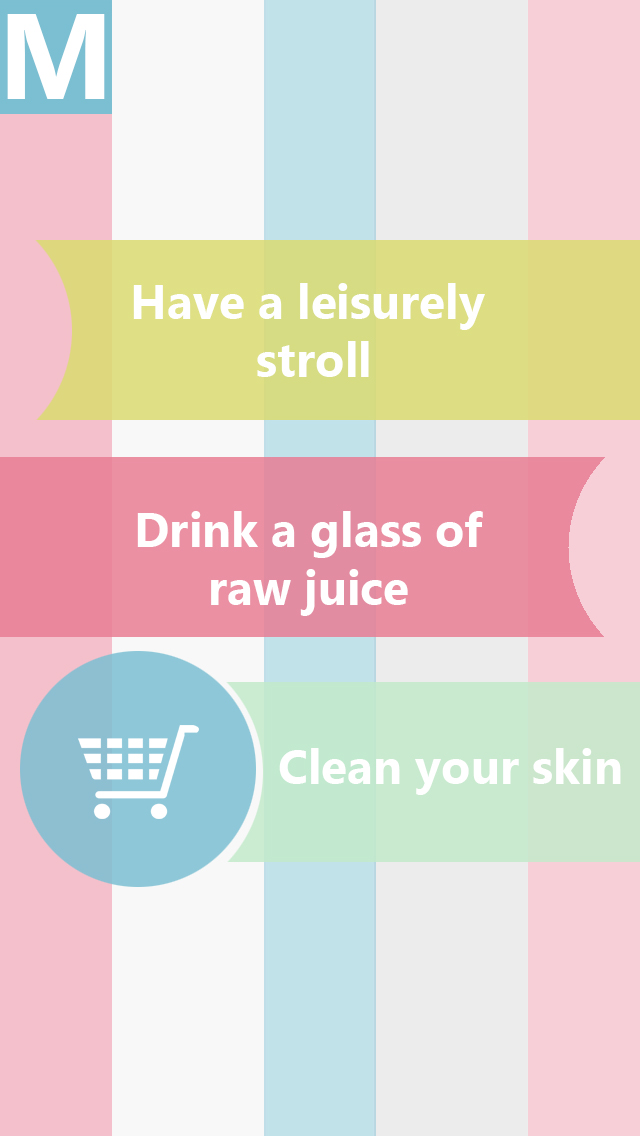
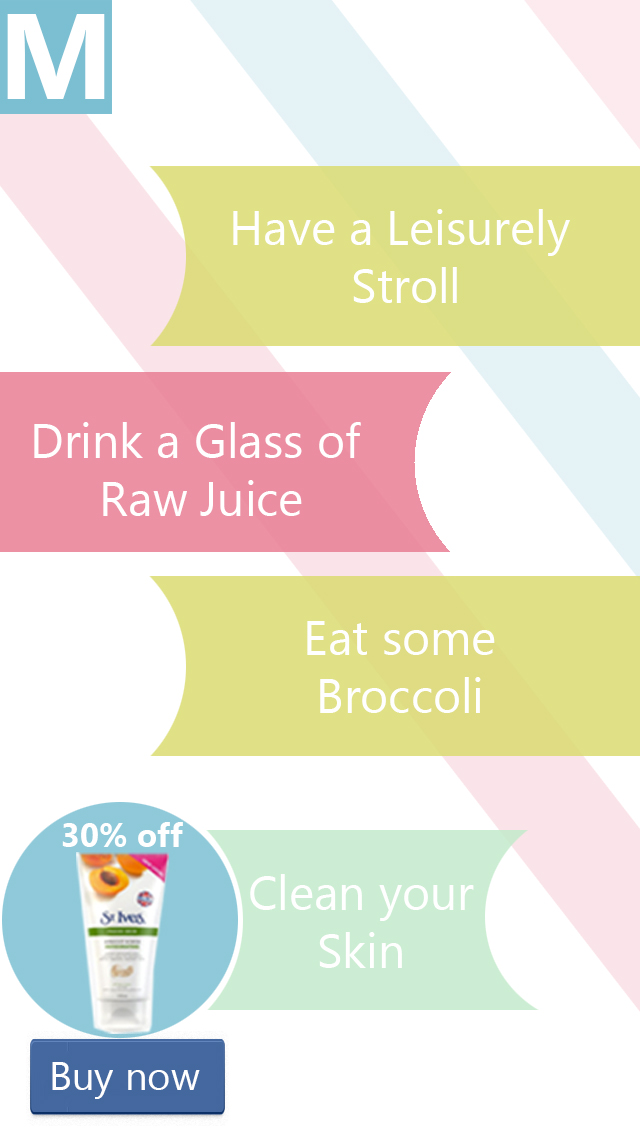
updates

diff --git a/HashProject/AcceptChallengeViewController.m b/HashProject/AcceptChallengeViewController.m
@@ -42,28 +42,38 @@
     
     self.view.backgroundColor = [UIColor blueColor];
     
-    UIButton* button = [[UIButton alloc] initWithFrame:CGRectMake(10.0, 330.0, 120.0, 120.0)];
-    button.backgroundColor = [UIColor blackColor];
+    UIButton* button = [[UIButton alloc] initWithFrame:CGRectMake(0.0, 400.0, 120.0, 120.0)];
+    button.backgroundColor = [UIColor clearColor];
     [button addTarget:self action:@selector(onButtonTap) forControlEvents:UIControlEventTouchUpInside];
     [self.view addSubview:button];
     
-    UIButton *tickBoxOne = [[UIButton alloc] initWithFrame:CGRectMake(self.view.bounds.size.width - 50.0, 360.0, 40.0, 40.0)];
+    tickBoxOne = [[UIButton alloc] initWithFrame:CGRectMake(self.view.bounds.size.width -70.0, 440.0, 40.0, 40.0)];
     [tickBoxOne addTarget:self action:@selector(checkAction:) forControlEvents:UIControlEventTouchUpInside];
     tickBoxOne.backgroundColor = [UIColor redColor];
+    [tickBoxOne setImage:[UIImage imageNamed:@"empty box.jpg"] forState:UIControlStateNormal];
     tickBoxOne.tag = 1;
     [self.view addSubview:tickBoxOne];
     
-    UIButton *tickBoxTwo = [[UIButton alloc] initWithFrame:CGRectMake(self.view.bounds.size.width - 50.0, 250.0, 40.0, 40.0)];
+    tickBoxTwo = [[UIButton alloc] initWithFrame:CGRectMake(35.0, 310.0, 40.0, 40.0)];
     [tickBoxTwo addTarget:self action:@selector(checkAction:) forControlEvents:UIControlEventTouchUpInside];
+    [tickBoxTwo setImage:[UIImage imageNamed:@"empty box.jpg"] forState:UIControlStateNormal];
     tickBoxTwo.backgroundColor = [UIColor redColor];
     tickBoxTwo.tag = 2;
     [self.view addSubview:tickBoxTwo];
     
-    UIButton *tickBoxThree = [[UIButton alloc] initWithFrame:CGRectMake(self.view.bounds.size.width - 50.0, 140.0, 40.0, 40.0)];
+    tickBoxThree = [[UIButton alloc] initWithFrame:CGRectMake(self.view.bounds.size.width - 70.0, 210.0, 40.0, 40.0)];
     [tickBoxThree addTarget:self action:@selector(checkAction:) forControlEvents:UIControlEventTouchUpInside];
+    [tickBoxThree setImage:[UIImage imageNamed:@"empty box.jpg"] forState:UIControlStateNormal];
     tickBoxThree.backgroundColor = [UIColor redColor];
     tickBoxThree.tag = 3;
     [self.view addSubview:tickBoxThree];
+    
+    tickBoxFour = [[UIButton alloc] initWithFrame:CGRectMake(35.0, 105.0, 40.0, 40.0)];
+    [tickBoxFour addTarget:self action:@selector(checkAction:) forControlEvents:UIControlEventTouchUpInside];
+    [tickBoxFour setImage:[UIImage imageNamed:@"empty box.jpg"] forState:UIControlStateNormal];
+    tickBoxFour.backgroundColor = [UIColor redColor];
+    tickBoxFour.tag = 4;
+    [self.view addSubview:tickBoxFour];
     
 }
 
@@ -81,12 +91,12 @@
 -(void)checkAction:(UIButton *)button {
     UIButton *selectedButton = (UIButton *)[self.view viewWithTag:button.tag];
     if (selectedButton.backgroundColor == [UIColor greenColor]) {
-        [selectedButton setImage:[UIImage imageNamed:@"MyGreatImage.png"] forState:UIControlStateNormal];
+        [selectedButton setImage:[UIImage imageNamed:@"empty box.jpg"] forState:UIControlStateNormal];
         [selectedButton setBackgroundColor:[UIColor redColor]];
 
     }
     else {
-        [selectedButton setImage:[UIImage imageNamed:@"MyGreatImage.png"] forState:UIControlStateNormal];
+        [selectedButton setImage:[UIImage imageNamed:@"check box.jpg"] forState:UIControlStateNormal];
         [selectedButton setBackgroundColor:[UIColor greenColor]];
 
     }
@@ -99,6 +109,11 @@
     tapCount += 1;
     
     if (tapCount == 1) {
+        [tickBoxFour setImage:[UIImage imageNamed:@"empty box.jpg"] forState:UIControlStateNormal];
+        [tickBoxThree setImage:[UIImage imageNamed:@"empty box.jpg"] forState:UIControlStateNormal];
+        [tickBoxTwo setImage:[UIImage imageNamed:@"empty box.jpg"] forState:UIControlStateNormal];
+        [tickBoxOne setImage:[UIImage imageNamed:@"empty box.jpg"] forState:UIControlStateNormal];
+        
         CABasicAnimation *crossFade = [CABasicAnimation animationWithKeyPath:@"contents"];
         crossFade.duration = 1.0;
         crossFade.fromValue = (id)[UIImage imageNamed:@"Monday.jpg"].CGImage;
@@ -108,18 +123,14 @@
         
     }
     else {
-        BasketWebViewController *basketView = [[BasketWebViewController alloc] init];
-        UINavigationController *navigationController = [[UINavigationController alloc] initWithRootViewController:basketView];
-        basketView.modalTransitionStyle = UIModalTransitionStyleCoverVertical;
-        basketView.passedSite = @"Ocado";
-        basketView.passedURL = @"http://www.ocado.com/webshop/getSearchProducts.do?clearTabs=yes&isFreshSearch=true&entry=dove";
+        AwardsController *awardsView = [[AwardsController alloc] init];
+        UINavigationController *navigationController = [[UINavigationController alloc] initWithRootViewController:awardsView];
+        awardsView.modalTransitionStyle = UIModalTransitionStyleCoverVertical;
         
         [self presentViewController:navigationController animated:YES completion:nil];
         
     }
 
-    
-    
 }
 
 -(void)didReceiveMemoryWarning {

diff --git a/HashProject/AwardsController.m b/HashProject/AwardsController.m
@@ -17,7 +17,12 @@
 -(void)viewDidLoad {
     [super viewDidLoad];
 
-    NSLog(@"");
+    self.title = @"My Results";
+    
+    backgroundImage = [[UIImageView alloc] initWithFrame:CGRectMake(0.0, 0.0, self.view.bounds.size.width, self.view.bounds.size.height)];
+    backgroundImage.contentMode = UIViewContentModeScaleAspectFit;
+    backgroundImage.image = [UIImage imageNamed:@"WellDone.jpg"];
+    [self.view addSubview:backgroundImage];
 
 }
 

diff --git a/HashProject/HPIntroViewController.m b/HashProject/HPIntroViewController.m
@@ -240,7 +240,7 @@
     [ai startAnimating];
     [signingInView addSubview:ai];
     [self.view addSubview:signingInView];
-    [self performSelector:@selector(onSignInSuccess) withObject:nil afterDelay:0.3f];
+    [self performSelector:@selector(onSignInSuccess) withObject:nil afterDelay:4.0f];
     //[self performLogin];
     
 }

diff --git a/HashProject/AcceptChallengeViewController.h b/HashProject/AcceptChallengeViewController.h
@@ -11,6 +11,11 @@
 @interface AcceptChallengeViewController : UIViewController {
     int tapCount;
     
+    UIButton *tickBoxFour;
+    UIButton *tickBoxThree;
+    UIButton *tickBoxTwo;
+    UIButton *tickBoxOne;
+    
     IBOutlet UIImageView *backgroundImage;
     
     IBOutlet UITapGestureRecognizer *backgroundGesture;

diff --git a/HashProject/AwardsController.h b/HashProject/AwardsController.h
@@ -8,6 +8,9 @@
 
 #import <UIKit/UIKit.h>
 
-@interface AwardsController : UIViewController
+@interface AwardsController : UIViewController {
+    IBOutlet UIImageView *backgroundImage;
+    
+}
 
 @end
